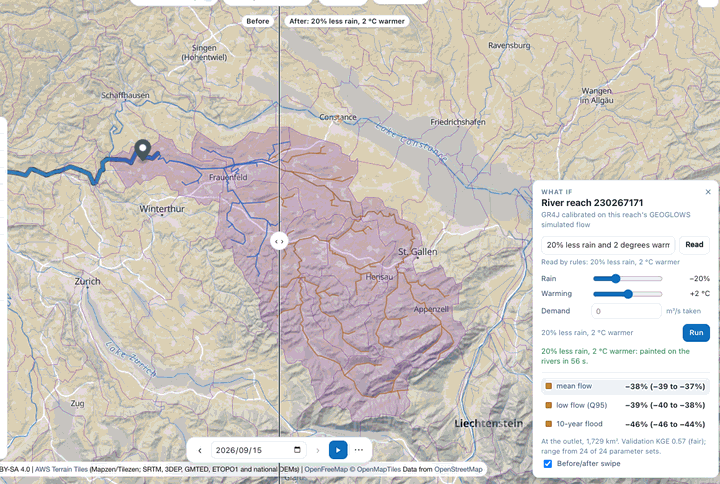
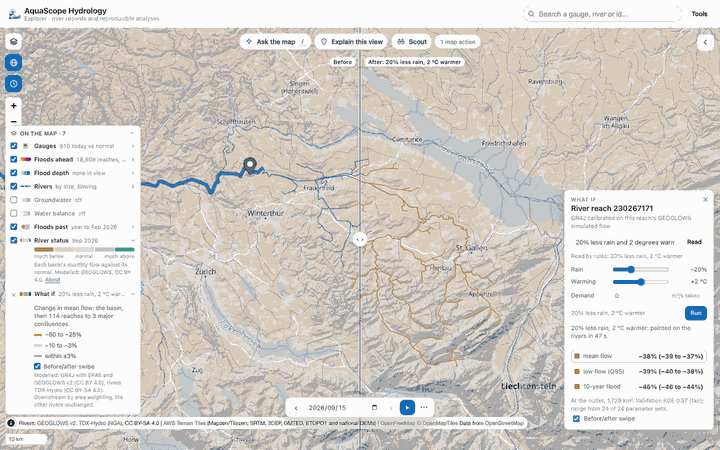
Review (#565): the click's HydroBASINS wash steps aside for the painting, the outlet's label clears the pin; fresh screenshots

diff --git a/explorer/src/whatif-map.js b/explorer/src/whatif-map.js
@@ -18,6 +18,7 @@ import { askModelConfig, currentContext } from "./ask.js?v=__BUILD__";
 import { generateJsonLocally, localModelReady, localReaderLabel } from "./local-model.js?v=__BUILD__";
 import { STREAMS_PMTILES } from "./river-core.js?v=__BUILD__";
 import { clearRiverNetwork } from "./river-map.js?v=__BUILD__";
+import { clearCatchment } from "./basins.js?v=__BUILD__";
 import { call, callLight } from "./worker-client.js?v=__BUILD__";
 import {
   CLASSES, MEASURES, NEUTRAL, basinRows, beforeSet, classOf, lineColorExpr, lineFilterExpr, logLabel, outletLines,
@@ -80,7 +81,9 @@ function ensureLayers() {
         "circle-stroke-width": ["case", outlet, 2.5, 1.5], "circle-stroke-color": ["case", outlet, "#0f1c26", "#ffffff"] } });
     map.addLayer({ id: L.label, type: "symbol", source: L.pts,
       layout: { "text-field": ["get", "text"], "text-font": ["Noto Sans Bold"], "text-size": 12.5,
-        "text-anchor": "left", "text-offset": [0.9, 0], "text-allow-overlap": true, "symbol-sort-key": ["get", "rank"] },
+        // The outlet's label clears the click's pin, which stands on the same point.
+        "text-anchor": "left", "text-offset": ["case", outlet, ["literal", [1.4, 0.6]], ["literal", [0.9, 0]]],
+        "text-allow-overlap": true, "symbol-sort-key": ["get", "rank"] },
       paint: { "text-color": "#0f1c26", "text-halo-color": "rgba(255,255,255,0.92)", "text-halo-width": 1.8 } });
     hook();
     return true;
@@ -203,8 +206,9 @@ function paint(value, { frame = true } = {}) {
     refreshLegend("whatif");
     return;
   }
-  // The click's own lit network (what drains here, the way to the sea) would compete with the painting.
-  if (frame) clearRiverNetwork();
+  // The click's own lit network (what drains here, the way to the sea) and its HydroBASINS wash would compete
+  // with the painting: the basin here is the one the model ran on, drawn in its change.
+  if (frame) { clearRiverNetwork(); clearCatchment(); }
   draw();
   scheduleLearn();
   if (frame) frameResult(value.result);

diff --git a/explorer/src/whatif-core.js b/explorer/src/whatif-core.js
@@ -63,7 +63,7 @@ export const colorOf = (v) => CLASSES[classOf(v)].color;
 
 /**
  * The line colour for the stream tiles: each painted reach in its class colour, the ones left of the swipe
- * (`before`, a Set of river ids) in the neutral grey, everything else transparent (the filter hides it anyway).
+ * (`before`, a Set of river ids) in the rivers' own blue (BEFORE), everything else transparent (the filter hides it anyway).
  */
 export function lineColorExpr(reaches, measure = "mean", before = null) {
   const key = (MEASURES[measure] || MEASURES.mean).key;

diff --git a/CHANGELOG.md b/CHANGELOG.md
@@ -25,7 +25,7 @@ All notable changes to AquaScope are documented here.
 - **What if, on the map** (#565, part of #566): "20% less rain and 2 degrees warmer" painted on the rivers, from the map card's **What if…** ([docs](docs/explorer.md#what-if-on-the-map)).
   - `aquascope.whatif_map.whatif`: the basin draining to a reach (GEOGLOWS v2 routing tables), GR4J with the snow store where it snows, ERA5 at the basin's centre, calibrated on the gauge or on the reach's GEOGLOWS simulated flow. Returns the change in mean flow, low flow (Q95) and a T-year flood at the outlet, each with a range from the parameter sets that do as well on the validation years, and every reach downstream to the third major confluence with the change scaled by area (the simplification is stated in the answer). Basins over 100,000 km² are refused.
   - `aquascope.advanced.catchment_model` gains `flood_rp`, `members` (the behavioural range), a scenario `demand_cms`, `params` (reuse a calibration) and `source="geoglows"` (calibrate on a reach's simulated flow). Without them its answer is unchanged.
-  - Keyless rules read a what-if line (`parse_scenario`); the on-device model or your own key only fill the four parameters, and a number not in the words is refused (`parse_scenario_reply`).
+  - Keyless rules read a what-if line (`parse_scenario`); the on-device model or your own key only fill the four parameters, and a number not in the words, used twice, against the words' direction or out of bounds is refused (`parse_scenario_reply`).
   - `aquascope whatif`, the MCP tool `whatif_map`.
   - In the Explorer: sliders and one line in a small panel; the basin and the river below painted brown to teal by the change, labels at the outlet and each major confluence, a before/after swipe, a map card per reach, every run in the action log with undo. The Thur at 1,729 km² gives −38.3% mean flow in the browser and in the CLI.
 - **Review my model results** (#564, part of #566): checks by code on a model run dropped on the globe, each a pin with its place, severity, value and source ([docs](docs/mesh.md#review-my-model-results)).

diff --git a/docs/explorer.md b/docs/explorer.md
@@ -351,8 +351,9 @@ Who reads the line, in the same order as Ask the map:
    +1.5 °C". This always works.
 2. **The model on your device**, then **your own key** from Ask ✨. The model only
    fills the four parameters (rain %, warming, evaporation %, demand). A number it
-   gives that is not in your words is refused (the claim lock), and the line under the
-   box says who read it. The values go into the sliders before the run, so you see
+   gives that is not in your words, one your words say once but it uses twice, one
+   going the other way from your words ("20% more rain" is never -20), or one outside
+   the limits is refused (the claim lock), and the line under the box says who read it. The values go into the sliders before the run, so you see
    exactly what runs.
 
 Every run is in the action log with its undo; a new run replaces the painting and undo
